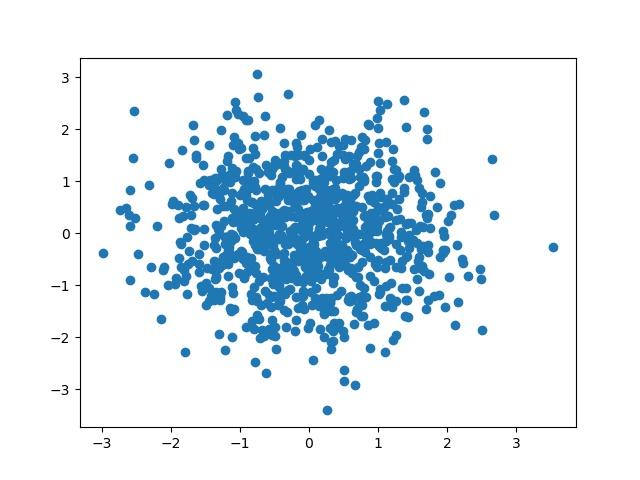
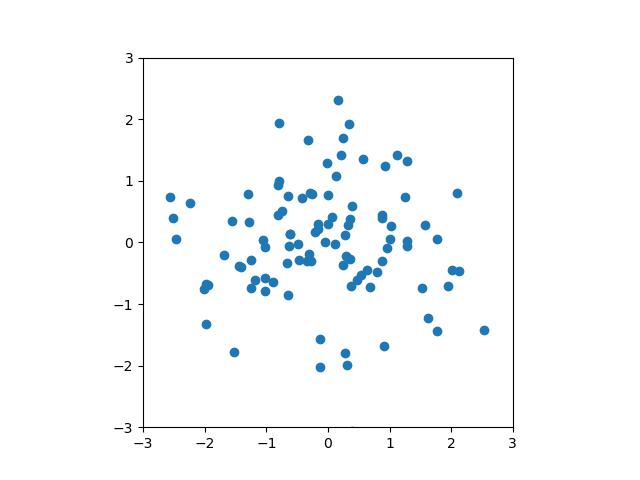
Minor update.

diff --git a/Sec1/03-matplotlib.md b/Sec1/03-matplotlib.md
@@ -20,7 +20,7 @@ plt.show()
 
 ### 折れ線グラフ
 
-実験としてsin関数のグラフを $[-\pi, \pi]$ の範囲で書いてみよう。データの準備にはNumPyの `numpy.linspace` 関数を使うと良い。
+折れ線グラフは `plt.plot` を用いて作成できる。これを用いて、sin関数を $[-\pi, \pi]$ の範囲で書いてみよう。データの準備にはNumPyの `numpy.linspace` 関数を使うと良い。
 
 ```python
 # データの用意
@@ -35,11 +35,14 @@ plt.show()
 
 ### 散布図
 
-実験として、二次元正規分布に従うデータの散布図を作ってみよう。
+散布図は `plt.scatter` を用いて作成できる。これを用いて、二次元正規分布に従うデータの散布図を作ってみよう。この際、`plt.xlim`, `plt.ylim` を使った範囲指定と、`plt.gca().set_aspect`を用いたグラフの縦横比の指定をしておこう。
 
 ```python
 xs, ys = np.random.normal(size=(2, 100))
 plt.scatter(xs, ys)
+plt.xlim([-3, 3])
+plt.ylim([-3, 3])
+plt.axis().set_aspect('equal')
 plt.show()
 ```
 
@@ -47,19 +50,72 @@ plt.show()
 
 ### 棒グラフ
 
+棒グラフはラベルと、各ラベルに対する値の組み合わせによって作成する。
+
+```python
+labels = ['Apple', 'Banana', 'Cherry', 'Durian']
+prices = [100, 200, 300, 400]
+plt.bar(labels, prices)
+plt.show()
+```
+
+![](./imgs/plt_bar_chart.jpg)
+
+
 ### 円グラフ
+
+円グラフを描く関数 `plt.pie` の使い方は棒グラフのものとほとんど同じだが、引数の指定の仕方が微妙に異なるので注意。
+
+```python
+labels = ['Apple', 'Banana', 'Cherry', 'Durian']
+prices = [100, 200, 300, 400]
+plt.pie(prices, labels=labels)
+plt.show()
+```
+
+![](./imgs/plt_pie_chart.jpg)
 
 ### ヒストグラム
 
-Line plots
-Scatter plots
-Bar plots (vertical and horizontal)
-Histograms
-Pie charts
-Box plots
+ヒストグラムは `plt.hist` 関数を用いれば、グラフの作成とヒストグラム自体の計算を両方行うことができる。以下では、正規分布に従う乱数を1000個作成して、その分布がどうなっているかをヒストグラムで表示している。また、以下のコードで使用してはいないものの `freq` と `ranges` はそれぞれヒストグラムの頻度と、その頻度の範囲を示す値の配列 (ビン数+1の長さ)となっている。
+
+```python
+x = np.random.normal(size=(1000))
+freq, ranges, _ = plt.hist(x, bins=20, range=[-5, 5])
+plt.show()
+```
+
+![](./imgs/plt_hist.jpg)
+
+また、 ヒストグラムを描画する際には、その合計が1になるように正規化することも多い。そのようにしたい場合には `plt.hist` の引数に `density=True` を指定する
+
+また、これに加えて、先ほどの `plt.plot` を用いて正規分布 (平均が0で分散が1のもの)を折れ線グラフでプロットすると、より分かりやすい。
+
+```python
+# ヒストグラムの表示
+x = np.random.normal(size=(10000))
+w = np.ones(len(x)) / len(x)
+plt.hist(x, bins=20, range=[-5, 5], density=True)
+# 正規分布関数をプロット
+xs = np.linspace(-5, 5, 100)
+ys = np.exp(-0.5 * xs * xs) / (np.sqrt(2.0 * np.pi))
+plt.plot(xs, ys)
+plt.show()
+```
+
+![](./imgs/plt_hist_and_plot.jpg)
 
 ### グラフを保存する
 
+グラフを保存するには `plt.savefig` を用いる。この際、JPEGやPNGといったラスタ形式のフォーマットの他、EPSやPDFといったベクタ形式の画像も出力できる。
+
+```python
+# グラフを描画するコード
+...
+plt.savefig('image.jpg')
+# plt.showが先でも構わないが、後にしておけばグラフ表示時にファイルが保存される
+plt.show()  
+```
 
 ---
 

diff --git a/README.md b/README.md
@@ -1,6 +1,8 @@
 機械学習発展 (実践)
 ===
 
+<a rel="license" href="http://creativecommons.org/licenses/by-nc-sa/4.0/"><img alt="Creative Commons License" style="border-width:0" src="https://i.creativecommons.org/l/by-nc-sa/4.0/88x31.png" /></a><br/>
+
 ## 講義の概要
 
 ### 求める前提知識
@@ -10,18 +12,40 @@
 ### 受講対象者
 - Pythonを使った画像処理・機械学習システムについて勉強したい
 
+### 参考図書
+- A. Geron著『scikit-learn、Keras、TensorFlowによる実践機械学習』、オライリー社
+- M. Beyeler著『OpenCVとPythonによる機械学習プログラミング』、マイナビ
+
 ## 目次
 
-### 第1節 画像読み取り式数独ソルバの実装
+### 第1部 画像読み取り式数独ソルバの実装
 
+#### 1-1. Python環境の準備 
 1. [Python環境のセットアップ](./Sec1/01-setup.md)
+
+#### 1-2. NumPy, scikit-learn, OpenCV etc.
 1. [NumPyの基礎](./Sec1/02-numpy.md)
 1. [Matplotlibの基礎](./Sec1/03-matplotlib.md)
+1. [scikit-learnの基礎](./Sec1/04-scikit-learn.md)
 1. [OpenCVの基礎](./Sec1/04-opencv.md)
 
-### 第2節 ひらがなOCRソフトと百人一首エージェントの実装
+#### 1-3. 数独ソルバの開発
 
-### 第3節 強化学習の基礎とリバーシエージェントの実装
+#### 1-4. 第1部 演習課題
+
+### 第2部 ひらがなOCRソフトと百人一首エージェントの実装
+
+#### 2-1. PyTorchの基礎
+
+#### 2-2. MLPとCNN
+
+#### 2-3. ひらがなOCRソフトの開発
+
+### 第3部 強化学習の基礎とリバーシエージェントの実装
+
+#### 3-1. 強化学習の基本
+
+#### 3-2. リバーシエージェントの開発
 
 ## 資料の読み方
 
@@ -36,6 +60,6 @@
 - 実施時限: 秋冬学期 第x限
 - 教室: xx棟xx教室
 
-## Copyright
+## License
 
-No License 2023 (c) Tatsuya Yatagawa
+[CC BY-NC-SA 4.0](http://creativecommons.org/licenses/by-nc-sa/4.0/), 2023 (c) Tatsuya Yatagawa
